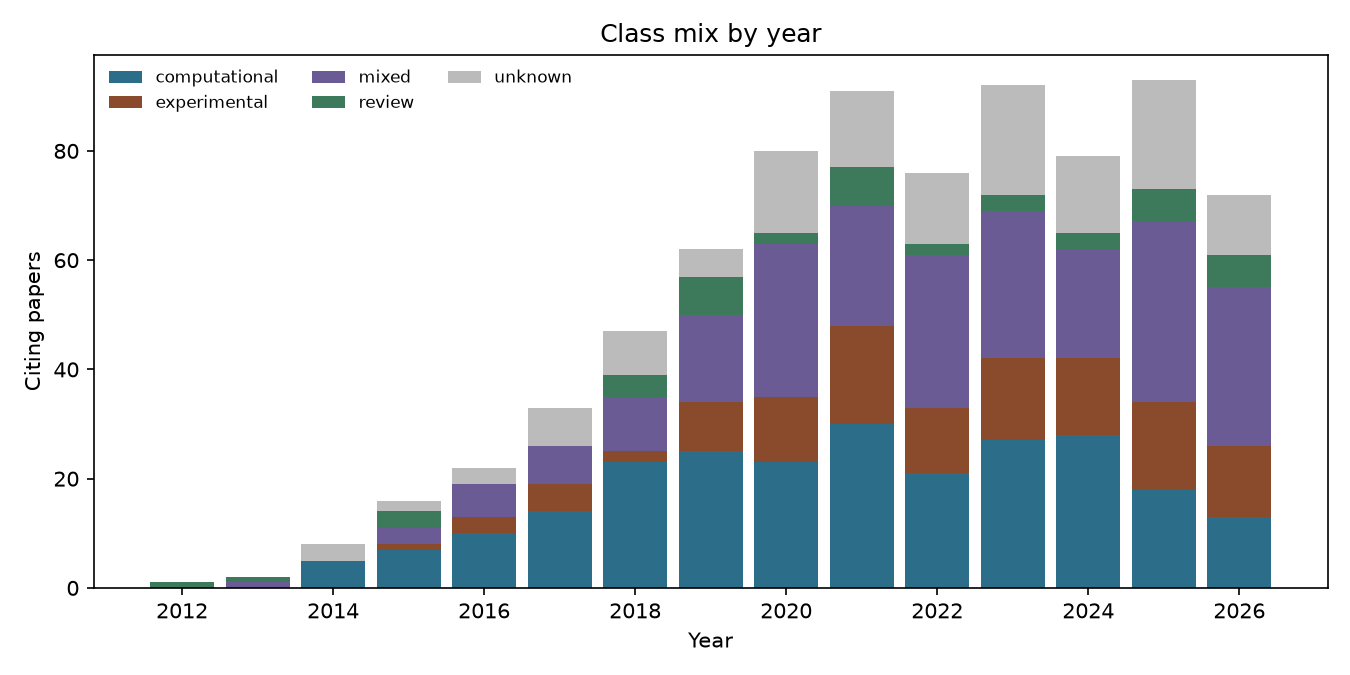
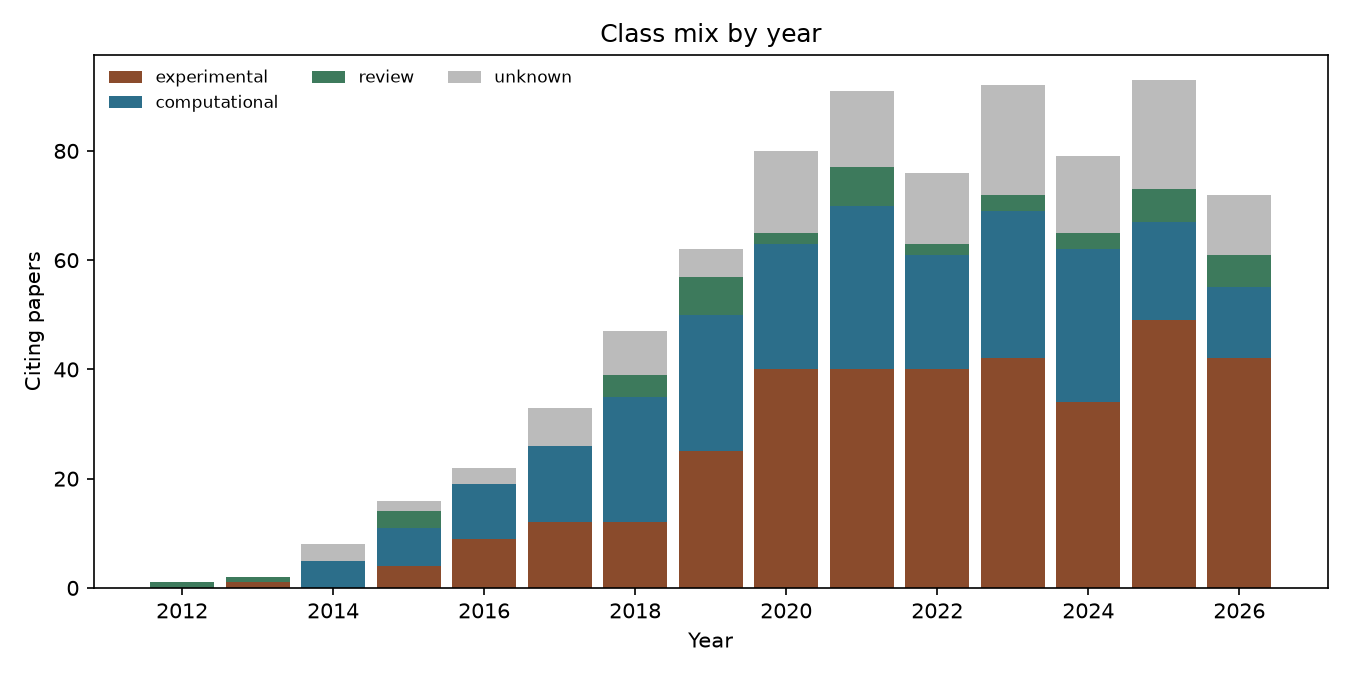
Refresh class figures after wet-lab-first labeling.
Recompute citing-paper class counts with experimental absorbing former mixed papers.

Changed region(s): [[0.28, 0.28, 0.9644, 0.8711], [0.0622, 0.0933, 0.3111, 0.1867], [0.1556, 0.84, 0.2178, 0.8711]]

diff --git a/data/analysis/analysis_report.md b/data/analysis/analysis_report.md
@@ -1,14 +1,14 @@
 # Citing-paper analysis
 
 - Citing papers: **777**
-- Class counts: {'computational': 245, 'experimental': 120, 'mixed': 230, 'review': 46, 'unknown': 136}
+- Class counts: {'computational': 245, 'experimental': 350, 'review': 46, 'unknown': 136}
 - Predict-then-test (XenoSite use → experiment): {'high': 25, 'low': 149, 'medium': 31} (high+medium=56)
 - Topic model docs: **747** across **8** NMF topics
 - Pre-2012 citing records (likely metadata noise): **3**
 
 ## Classes
 
-Heuristic labels from OpenAlex `type` plus title/abstract keywords (`review` / `computational` / `experimental` / `mixed` / `unknown`). Mixed means both computational and experimental cues appear.
+Heuristic labels from OpenAlex `type` plus title/abstract keywords (`review` / `experimental` = any wet-lab cue / `computational` = computation-only / `unknown`).
 
 ## Predict-then-test
 
